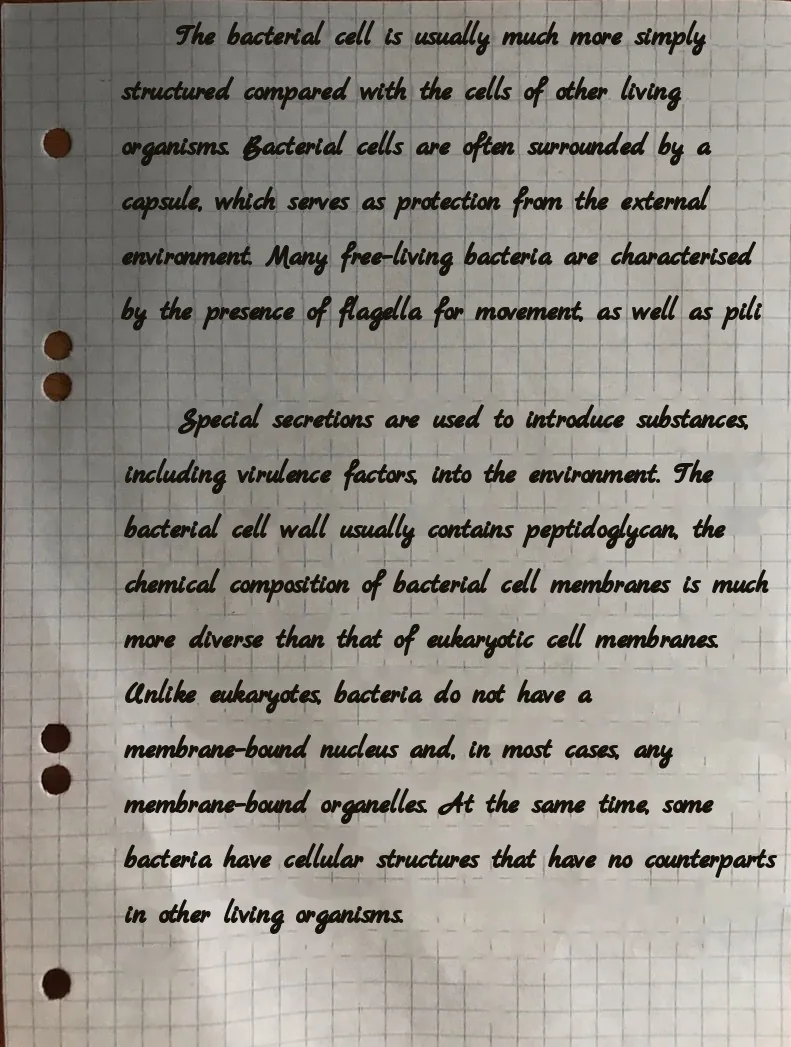
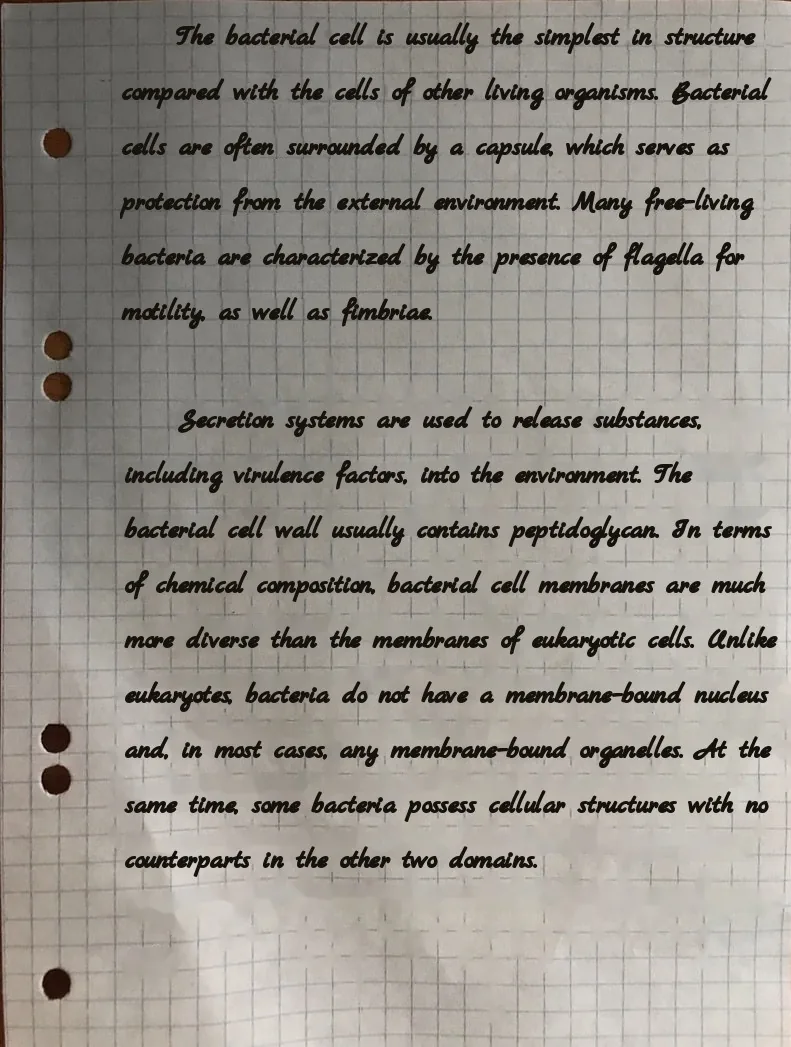
Лендинг /start/: конспект — перевод по сверенному оригиналу; подпись источника фото конспекта

Changed region(s): [[0.1517, 0.3668, 0.9709, 0.8863], [0.1517, 0.1834, 0.9709, 0.3362], [0.1517, 0.0, 0.9709, 0.1528]]

diff --git a/landing/start/index.html b/landing/start/index.html
@@ -912,7 +912,7 @@ html[lang="en"] .rev q { quotes: "“" "”"; }
       about: "О сервисе", terms: "Оферта", privacy: "Персональные данные",
       mockH: "Открываем редактор", mockNoFile: "Файл выберете в редакторе", mockClose: "Понятно",
       mockNote: "Это макет. На сайте файл сразу откроется в редакторе с выбранными языками.",
-      tr1: "Первая страница бесплатно", tr2: "Ваш файл закрыт от других", tr3: "Без подписки: платите за страницы", tr4: "Цифры сверяем автоматически", exH: "Примеры работ", exSub: "Нажимайте и смотрите.", sample: "Настоящий перевод", tabBook: "Книга", tabPaper: "Статья", tabVideo: "Видео", tabScan: "Фото", bookOpen: "Открыть книгу", bookNext: "Перелистнуть", bookClose: "Закрыть книгу", langInto: "Перевод на:", baOrig: "Оригинал", baTr: "Перевод", baBoth: "Сравнить", baHint: "Потяните ползунок", vidSubs: "Субтитры:", vidBoth: "Два языка", play: "Смотреть", pause: "Пауза", scanGo: "Прочитать и перевести", scanBack: "Показать оригинал", chkO: "Оригинал", chkRaw: "Перевод без проверки", chkFix: "После проверки", chkFound: "В оригинале 300, а не 30", chkOk: "Исправлено", chkBtn: "Проверить цифры", chkAgain: "Ещё раз", revH: "Что говорят о нас", revNote: "Образцы. Заменим на настоящие отзывы.", rev1n: "Дилноза Каримова", rev1i: "ДК", rev2n: "Рустам Юсупов", rev2i: "РЮ", rev3n: "Анна Ли", rev3i: "АЛ", rev1: "Перевела учебник на 300 страниц за один день. Таблицы остались на месте.", rev1r: "Доцент, Самарканд", rev2: "Субтитры к лекции на трёх языках. Студенты наконец всё понимают.", rev2r: "Методист, Бухара", rev3: "Видеоотзыв", rev3r: "Переводчик, Ташкент", tlOrig: "оригинал", tlMore: "Другие языки", scAltO: "Табличка в музее, оригинал", scAltT: "Та же табличка, перевод:", scCapSign: "Табличка в музее", scCapNote: "Конспект от руки", scCapTyped: "Машинопись, 1940 г.", scCapBook: "Книга, 1886 г.", scCapPaper: "Научная статья", scPrev: "Предыдущее фото", scNext: "Следующее фото", credits: "Все примеры переведены нашим сервисом. Источники: А. П. Чехов, «Толстый и тонкий» (1883) и фото разворота «Пёстрых рассказов» (1886) — общественное достояние, <a href=\"https://commons.wikimedia.org/wiki/File:Chekhov_Smert_chinovnika_Pyostrye_rasskazy_1886.jpg\" target=\"_blank\" rel=\"noopener\">Wikimedia Commons</a>. Статья: K. Okano и др., «Sleep quality, duration, and consistency are associated with better academic performance in college students», npj Science of Learning 4:16 (2019), <a href=\"https://doi.org/10.1038/s41539-019-0055-z\" target=\"_blank\" rel=\"noopener\">doi:10.1038/s41539-019-0055-z</a>, лицензия <a href=\"https://creativecommons.org/licenses/by/4.0/\" target=\"_blank\" rel=\"noopener\">CC BY 4.0</a>; показан фрагмент с переводом. Видео: NASA ScienceCasts, «The Zero Gravity Coffee Cup», фрагмент 25 с, общественное достояние; NASA не связано с сервисом. Документ на плитке «Сканы и фото»: справка о подготовке к открытию ВСХВ, 5 мая 1940 г., машинопись, Главархив Москвы, <a href=\"https://commons.wikimedia.org/wiki/File:VSKHV_document_May_1940.jpg\" target=\"_blank\" rel=\"noopener\">Wikimedia Commons</a>, <a href=\"https://creativecommons.org/licenses/by/4.0/\" target=\"_blank\" rel=\"noopener\">CC BY 4.0</a>; показан фрагмент с переводом. Фото таблички: <a href=\"https://commons.wikimedia.org/wiki/File:Lada_vaz_2105_spec_rpd.jpg\" target=\"_blank\" rel=\"noopener\">Wikimedia Commons</a>, CC0."
+      tr1: "Первая страница бесплатно", tr2: "Ваш файл закрыт от других", tr3: "Без подписки: платите за страницы", tr4: "Цифры сверяем автоматически", exH: "Примеры работ", exSub: "Нажимайте и смотрите.", sample: "Настоящий перевод", tabBook: "Книга", tabPaper: "Статья", tabVideo: "Видео", tabScan: "Фото", bookOpen: "Открыть книгу", bookNext: "Перелистнуть", bookClose: "Закрыть книгу", langInto: "Перевод на:", baOrig: "Оригинал", baTr: "Перевод", baBoth: "Сравнить", baHint: "Потяните ползунок", vidSubs: "Субтитры:", vidBoth: "Два языка", play: "Смотреть", pause: "Пауза", scanGo: "Прочитать и перевести", scanBack: "Показать оригинал", chkO: "Оригинал", chkRaw: "Перевод без проверки", chkFix: "После проверки", chkFound: "В оригинале 300, а не 30", chkOk: "Исправлено", chkBtn: "Проверить цифры", chkAgain: "Ещё раз", revH: "Что говорят о нас", revNote: "Образцы. Заменим на настоящие отзывы.", rev1n: "Дилноза Каримова", rev1i: "ДК", rev2n: "Рустам Юсупов", rev2i: "РЮ", rev3n: "Анна Ли", rev3i: "АЛ", rev1: "Перевела учебник на 300 страниц за один день. Таблицы остались на месте.", rev1r: "Доцент, Самарканд", rev2: "Субтитры к лекции на трёх языках. Студенты наконец всё понимают.", rev2r: "Методист, Бухара", rev3: "Видеоотзыв", rev3r: "Переводчик, Ташкент", tlOrig: "оригинал", tlMore: "Другие языки", scAltO: "Табличка в музее, оригинал", scAltT: "Та же табличка, перевод:", scCapSign: "Табличка в музее", scCapNote: "Конспект от руки", scCapTyped: "Машинопись, 1940 г.", scCapBook: "Книга, 1886 г.", scCapPaper: "Научная статья", scPrev: "Предыдущее фото", scNext: "Следующее фото", credits: "Все примеры переведены нашим сервисом. Источники: А. П. Чехов, «Толстый и тонкий» (1883) и фото разворота «Пёстрых рассказов» (1886) — общественное достояние, <a href=\"https://commons.wikimedia.org/wiki/File:Chekhov_Smert_chinovnika_Pyostrye_rasskazy_1886.jpg\" target=\"_blank\" rel=\"noopener\">Wikimedia Commons</a>. Статья: K. Okano и др., «Sleep quality, duration, and consistency are associated with better academic performance in college students», npj Science of Learning 4:16 (2019), <a href=\"https://doi.org/10.1038/s41539-019-0055-z\" target=\"_blank\" rel=\"noopener\">doi:10.1038/s41539-019-0055-z</a>, лицензия <a href=\"https://creativecommons.org/licenses/by/4.0/\" target=\"_blank\" rel=\"noopener\">CC BY 4.0</a>; показан фрагмент с переводом. Видео: NASA ScienceCasts, «The Zero Gravity Coffee Cup», фрагмент 25 с, общественное достояние; NASA не связано с сервисом. Документ на плитке «Сканы и фото»: справка о подготовке к открытию ВСХВ, 5 мая 1940 г., машинопись, Главархив Москвы, <a href=\"https://commons.wikimedia.org/wiki/File:VSKHV_document_May_1940.jpg\" target=\"_blank\" rel=\"noopener\">Wikimedia Commons</a>, <a href=\"https://creativecommons.org/licenses/by/4.0/\" target=\"_blank\" rel=\"noopener\">CC BY 4.0</a>; показан фрагмент с переводом. Фото таблички: <a href=\"https://commons.wikimedia.org/wiki/File:Lada_vaz_2105_spec_rpd.jpg\" target=\"_blank\" rel=\"noopener\">Wikimedia Commons</a>, CC0. Конспект от руки: фото автора сервиса, публикуется с согласия автора."
     },
     uz: {
       title: "SimpleTranslate: istalgan tilga bir bosishda tarjima",
@@ -938,7 +938,7 @@ html[lang="en"] .rev q { quotes: "“" "”"; }
       about: "Xizmat haqida", terms: "Oferta", privacy: "Shaxsiy ma'lumotlar",
       mockH: "Muharrir ochilmoqda", mockNoFile: "Faylni muharrirda tanlaysiz", mockClose: "Tushunarli",
       mockNote: "Bu maket. Saytda fayl tanlangan tillar bilan darhol muharrirda ochiladi.",
-      tr1: "Birinchi bet bepul", tr2: "Faylingiz boshqalardan yopiq", tr3: "Obunasiz: faqat betlar uchun to‘lov", tr4: "Raqamlar avtomatik tekshiriladi", exH: "Ishlarimizdan namunalar", exSub: "Bosing va ko‘ring.", sample: "Haqiqiy tarjima", tabBook: "Kitob", tabPaper: "Maqola", tabVideo: "Video", tabScan: "Rasm", bookOpen: "Kitobni ochish", bookNext: "Varaqlash", bookClose: "Kitobni yopish", langInto: "Tarjima tili:", baOrig: "Asl nusxa", baTr: "Tarjima", baBoth: "Solishtirish", baHint: "Slayderni torting", vidSubs: "Subtitrlar:", vidBoth: "Ikki til", play: "Ko‘rish", pause: "Pauza", scanGo: "O‘qish va tarjima qilish", scanBack: "Asl nusxani ko‘rsatish", chkO: "Asl nusxa", chkRaw: "Tekshiruvsiz tarjima", chkFix: "Tekshiruvdan keyin", chkFound: "Asl nusxada 30 emas, 300", chkOk: "Tuzatildi", chkBtn: "Raqamlarni tekshirish", chkAgain: "Yana bir bor", revH: "Biz haqimizda fikrlar", revNote: "Namunalar. Haqiqiy fikrlar bilan almashtiramiz.", rev1n: "Dilnoza Karimova", rev1i: "DK", rev2n: "Rustam Yusupov", rev2i: "RY", rev3n: "Anna Li", rev3i: "AL", rev1: "300 betlik darslikni bir kunda tarjima qildim. Jadvallar joyida qoldi.", rev1r: "Dotsent, Samarqand", rev2: "Ma’ruzaga uch tilda subtitrlar. Talabalar endi hammasini tushunishadi.", rev2r: "Metodist, Buxoro", rev3: "Video fikr", rev3r: "Tarjimon, Toshkent", tlOrig: "asl nusxa", tlMore: "Boshqa tillar", scAltO: "Muzeydagi lavha, asl nusxa", scAltT: "Oʻsha lavha, tarjima:", scCapSign: "Muzeydagi lavha", scCapNote: "Qoʻlda yozilgan konspekt", scCapTyped: "Mashinkada yozilgan hujjat, 1940", scCapBook: "Kitob, 1886", scCapPaper: "Ilmiy maqola", scPrev: "Oldingi rasm", scNext: "Keyingi rasm", credits: "Barcha misollarni xizmatimiz tarjima qilgan. Manbalar: A. P. Chexov, «Semiz va ozgʻin» (1883) va «Rang-barang hikoyalar» (1886) kitobi sahifalari surati — jamoat mulki, <a href=\"https://commons.wikimedia.org/wiki/File:Chekhov_Smert_chinovnika_Pyostrye_rasskazy_1886.jpg\" target=\"_blank\" rel=\"noopener\">Wikimedia Commons</a>. Maqola: K. Okano va boshq., «Sleep quality, duration, and consistency are associated with better academic performance in college students», npj Science of Learning 4:16 (2019), <a href=\"https://doi.org/10.1038/s41539-019-0055-z\" target=\"_blank\" rel=\"noopener\">doi:10.1038/s41539-019-0055-z</a>, litsenziya <a href=\"https://creativecommons.org/licenses/by/4.0/\" target=\"_blank\" rel=\"noopener\">CC BY 4.0</a>; tarjimasi bilan parcha koʻrsatilgan. Video: NASA ScienceCasts, «The Zero Gravity Coffee Cup», 25 soniyalik parcha, jamoat mulki; NASA xizmatga aloqador emas. «Skan va rasmlar» plitkasidagi hujjat: Butunittifoq qishloq xoʻjaligi koʻrgazmasini ochishga tayyorgarlik haqida maʼlumotnoma, 1940-yil 5-may, mashinkada yozilgan, Moskva Bosh arxivi, <a href=\"https://commons.wikimedia.org/wiki/File:VSKHV_document_May_1940.jpg\" target=\"_blank\" rel=\"noopener\">Wikimedia Commons</a>, <a href=\"https://creativecommons.org/licenses/by/4.0/\" target=\"_blank\" rel=\"noopener\">CC BY 4.0</a>; tarjimasi bilan parcha koʻrsatilgan. Lavha surati: <a href=\"https://commons.wikimedia.org/wiki/File:Lada_vaz_2105_spec_rpd.jpg\" target=\"_blank\" rel=\"noopener\">Wikimedia Commons</a>, CC0."
+      tr1: "Birinchi bet bepul", tr2: "Faylingiz boshqalardan yopiq", tr3: "Obunasiz: faqat betlar uchun to‘lov", tr4: "Raqamlar avtomatik tekshiriladi", exH: "Ishlarimizdan namunalar", exSub: "Bosing va ko‘ring.", sample: "Haqiqiy tarjima", tabBook: "Kitob", tabPaper: "Maqola", tabVideo: "Video", tabScan: "Rasm", bookOpen: "Kitobni ochish", bookNext: "Varaqlash", bookClose: "Kitobni yopish", langInto: "Tarjima tili:", baOrig: "Asl nusxa", baTr: "Tarjima", baBoth: "Solishtirish", baHint: "Slayderni torting", vidSubs: "Subtitrlar:", vidBoth: "Ikki til", play: "Ko‘rish", pause: "Pauza", scanGo: "O‘qish va tarjima qilish", scanBack: "Asl nusxani ko‘rsatish", chkO: "Asl nusxa", chkRaw: "Tekshiruvsiz tarjima", chkFix: "Tekshiruvdan keyin", chkFound: "Asl nusxada 30 emas, 300", chkOk: "Tuzatildi", chkBtn: "Raqamlarni tekshirish", chkAgain: "Yana bir bor", revH: "Biz haqimizda fikrlar", revNote: "Namunalar. Haqiqiy fikrlar bilan almashtiramiz.", rev1n: "Dilnoza Karimova", rev1i: "DK", rev2n: "Rustam Yusupov", rev2i: "RY", rev3n: "Anna Li", rev3i: "AL", rev1: "300 betlik darslikni bir kunda tarjima qildim. Jadvallar joyida qoldi.", rev1r: "Dotsent, Samarqand", rev2: "Ma’ruzaga uch tilda subtitrlar. Talabalar endi hammasini tushunishadi.", rev2r: "Metodist, Buxoro", rev3: "Video fikr", rev3r: "Tarjimon, Toshkent", tlOrig: "asl nusxa", tlMore: "Boshqa tillar", scAltO: "Muzeydagi lavha, asl nusxa", scAltT: "Oʻsha lavha, tarjima:", scCapSign: "Muzeydagi lavha", scCapNote: "Qoʻlda yozilgan konspekt", scCapTyped: "Mashinkada yozilgan hujjat, 1940", scCapBook: "Kitob, 1886", scCapPaper: "Ilmiy maqola", scPrev: "Oldingi rasm", scNext: "Keyingi rasm", credits: "Barcha misollarni xizmatimiz tarjima qilgan. Manbalar: A. P. Chexov, «Semiz va ozgʻin» (1883) va «Rang-barang hikoyalar» (1886) kitobi sahifalari surati — jamoat mulki, <a href=\"https://commons.wikimedia.org/wiki/File:Chekhov_Smert_chinovnika_Pyostrye_rasskazy_1886.jpg\" target=\"_blank\" rel=\"noopener\">Wikimedia Commons</a>. Maqola: K. Okano va boshq., «Sleep quality, duration, and consistency are associated with better academic performance in college students», npj Science of Learning 4:16 (2019), <a href=\"https://doi.org/10.1038/s41539-019-0055-z\" target=\"_blank\" rel=\"noopener\">doi:10.1038/s41539-019-0055-z</a>, litsenziya <a href=\"https://creativecommons.org/licenses/by/4.0/\" target=\"_blank\" rel=\"noopener\">CC BY 4.0</a>; tarjimasi bilan parcha koʻrsatilgan. Video: NASA ScienceCasts, «The Zero Gravity Coffee Cup», 25 soniyalik parcha, jamoat mulki; NASA xizmatga aloqador emas. «Skan va rasmlar» plitkasidagi hujjat: Butunittifoq qishloq xoʻjaligi koʻrgazmasini ochishga tayyorgarlik haqida maʼlumotnoma, 1940-yil 5-may, mashinkada yozilgan, Moskva Bosh arxivi, <a href=\"https://commons.wikimedia.org/wiki/File:VSKHV_document_May_1940.jpg\" target=\"_blank\" rel=\"noopener\">Wikimedia Commons</a>, <a href=\"https://creativecommons.org/licenses/by/4.0/\" target=\"_blank\" rel=\"noopener\">CC BY 4.0</a>; tarjimasi bilan parcha koʻrsatilgan. Lavha surati: <a href=\"https://commons.wikimedia.org/wiki/File:Lada_vaz_2105_spec_rpd.jpg\" target=\"_blank\" rel=\"noopener\">Wikimedia Commons</a>, CC0. Qoʻlda yozilgan konspekt: xizmat muallifining surati, uning roziligi bilan eʼlon qilinadi."
     },
     en: {
       title: "SimpleTranslate: translate into any language in one click",
@@ -964,7 +964,7 @@ html[lang="en"] .rev q { quotes: "“" "”"; }
       about: "About", terms: "Terms", privacy: "Privacy",
       mockH: "Opening the editor", mockNoFile: "You will pick the file in the editor", mockClose: "Got it",
       mockNote: "This is a mockup. On the live site, the file opens in the editor right away with the languages you picked.",
-      tr1: "First page free", tr2: "Your file stays private", tr3: "No subscription: pay per page", tr4: "Numbers checked automatically", exH: "Examples of our work", exSub: "Tap and see.", sample: "Real translation", tabBook: "Book", tabPaper: "Paper", tabVideo: "Video", tabScan: "Photo", bookOpen: "Open the book", bookNext: "Turn the page", bookClose: "Close the book", langInto: "Translated into:", baOrig: "Original", baTr: "Translation", baBoth: "Compare", baHint: "Drag the slider", vidSubs: "Subtitles:", vidBoth: "Two languages", play: "Play", pause: "Pause", scanGo: "Read and translate", scanBack: "Show the original", chkO: "Original", chkRaw: "Unchecked translation", chkFix: "After the check", chkFound: "The original says 300, not 30", chkOk: "Fixed", chkBtn: "Check the numbers", chkAgain: "Once more", revH: "What people say", revNote: "Samples. We will replace them with real reviews.", rev1n: "Dilnoza Karimova", rev1i: "DK", rev2n: "Rustam Yusupov", rev2i: "RY", rev3n: "Anna Li", rev3i: "AL", rev1: "I translated a 300-page textbook in one day. The tables stayed in place.", rev1r: "Associate professor, Samarkand", rev2: "Lecture subtitles in three languages. Students finally understand everything.", rev2r: "Curriculum specialist, Bukhara", rev3: "Video review", rev3r: "Translator, Tashkent", tlOrig: "original", tlMore: "Other languages", scAltO: "A museum sign, original", scAltT: "The same sign, translated into", scCapSign: "Museum sign", scCapNote: "Handwritten notes", scCapTyped: "Typewritten memo, 1940", scCapBook: "Book, 1886", scCapPaper: "Research paper", scPrev: "Previous photo", scNext: "Next photo", credits: "Every example was translated by our service. Sources: A. P. Chekhov, “The Fat and the Thin” (1883), and a photo of a spread of “Motley Stories” (1886) — public domain, <a href=\"https://commons.wikimedia.org/wiki/File:Chekhov_Smert_chinovnika_Pyostrye_rasskazy_1886.jpg\" target=\"_blank\" rel=\"noopener\">Wikimedia Commons</a>. Paper: K. Okano et al., “Sleep quality, duration, and consistency are associated with better academic performance in college students”, npj Science of Learning 4:16 (2019), <a href=\"https://doi.org/10.1038/s41539-019-0055-z\" target=\"_blank\" rel=\"noopener\">doi:10.1038/s41539-019-0055-z</a>, licensed <a href=\"https://creativecommons.org/licenses/by/4.0/\" target=\"_blank\" rel=\"noopener\">CC BY 4.0</a>; an excerpt is shown with its translation. Video: NASA ScienceCasts, “The Zero Gravity Coffee Cup”, a 25-second excerpt, public domain; NASA is not affiliated with the service. Document on the “Scans and photos” tile: a memo on preparations for opening the All-Union Agricultural Exhibition, 5 May 1940, typewritten, Moscow Main Archive, <a href=\"https://commons.wikimedia.org/wiki/File:VSKHV_document_May_1940.jpg\" target=\"_blank\" rel=\"noopener\">Wikimedia Commons</a>, <a href=\"https://creativecommons.org/licenses/by/4.0/\" target=\"_blank\" rel=\"noopener\">CC BY 4.0</a>; an excerpt is shown with its translation. Sign photo: <a href=\"https://commons.wikimedia.org/wiki/File:Lada_vaz_2105_spec_rpd.jpg\" target=\"_blank\" rel=\"noopener\">Wikimedia Commons</a>, CC0."
+      tr1: "First page free", tr2: "Your file stays private", tr3: "No subscription: pay per page", tr4: "Numbers checked automatically", exH: "Examples of our work", exSub: "Tap and see.", sample: "Real translation", tabBook: "Book", tabPaper: "Paper", tabVideo: "Video", tabScan: "Photo", bookOpen: "Open the book", bookNext: "Turn the page", bookClose: "Close the book", langInto: "Translated into:", baOrig: "Original", baTr: "Translation", baBoth: "Compare", baHint: "Drag the slider", vidSubs: "Subtitles:", vidBoth: "Two languages", play: "Play", pause: "Pause", scanGo: "Read and translate", scanBack: "Show the original", chkO: "Original", chkRaw: "Unchecked translation", chkFix: "After the check", chkFound: "The original says 300, not 30", chkOk: "Fixed", chkBtn: "Check the numbers", chkAgain: "Once more", revH: "What people say", revNote: "Samples. We will replace them with real reviews.", rev1n: "Dilnoza Karimova", rev1i: "DK", rev2n: "Rustam Yusupov", rev2i: "RY", rev3n: "Anna Li", rev3i: "AL", rev1: "I translated a 300-page textbook in one day. The tables stayed in place.", rev1r: "Associate professor, Samarkand", rev2: "Lecture subtitles in three languages. Students finally understand everything.", rev2r: "Curriculum specialist, Bukhara", rev3: "Video review", rev3r: "Translator, Tashkent", tlOrig: "original", tlMore: "Other languages", scAltO: "A museum sign, original", scAltT: "The same sign, translated into", scCapSign: "Museum sign", scCapNote: "Handwritten notes", scCapTyped: "Typewritten memo, 1940", scCapBook: "Book, 1886", scCapPaper: "Research paper", scPrev: "Previous photo", scNext: "Next photo", credits: "Every example was translated by our service. Sources: A. P. Chekhov, “The Fat and the Thin” (1883), and a photo of a spread of “Motley Stories” (1886) — public domain, <a href=\"https://commons.wikimedia.org/wiki/File:Chekhov_Smert_chinovnika_Pyostrye_rasskazy_1886.jpg\" target=\"_blank\" rel=\"noopener\">Wikimedia Commons</a>. Paper: K. Okano et al., “Sleep quality, duration, and consistency are associated with better academic performance in college students”, npj Science of Learning 4:16 (2019), <a href=\"https://doi.org/10.1038/s41539-019-0055-z\" target=\"_blank\" rel=\"noopener\">doi:10.1038/s41539-019-0055-z</a>, licensed <a href=\"https://creativecommons.org/licenses/by/4.0/\" target=\"_blank\" rel=\"noopener\">CC BY 4.0</a>; an excerpt is shown with its translation. Video: NASA ScienceCasts, “The Zero Gravity Coffee Cup”, a 25-second excerpt, public domain; NASA is not affiliated with the service. Document on the “Scans and photos” tile: a memo on preparations for opening the All-Union Agricultural Exhibition, 5 May 1940, typewritten, Moscow Main Archive, <a href=\"https://commons.wikimedia.org/wiki/File:VSKHV_document_May_1940.jpg\" target=\"_blank\" rel=\"noopener\">Wikimedia Commons</a>, <a href=\"https://creativecommons.org/licenses/by/4.0/\" target=\"_blank\" rel=\"noopener\">CC BY 4.0</a>; an excerpt is shown with its translation. Sign photo: <a href=\"https://commons.wikimedia.org/wiki/File:Lada_vaz_2105_spec_rpd.jpg\" target=\"_blank\" rel=\"noopener\">Wikimedia Commons</a>, CC0. Handwritten notes: a photo by the author of the service, published with the author’s consent."
     }
   };
   var PAGE_SRC = { ru: "RU", uz: "UZ", en: "EN" };
